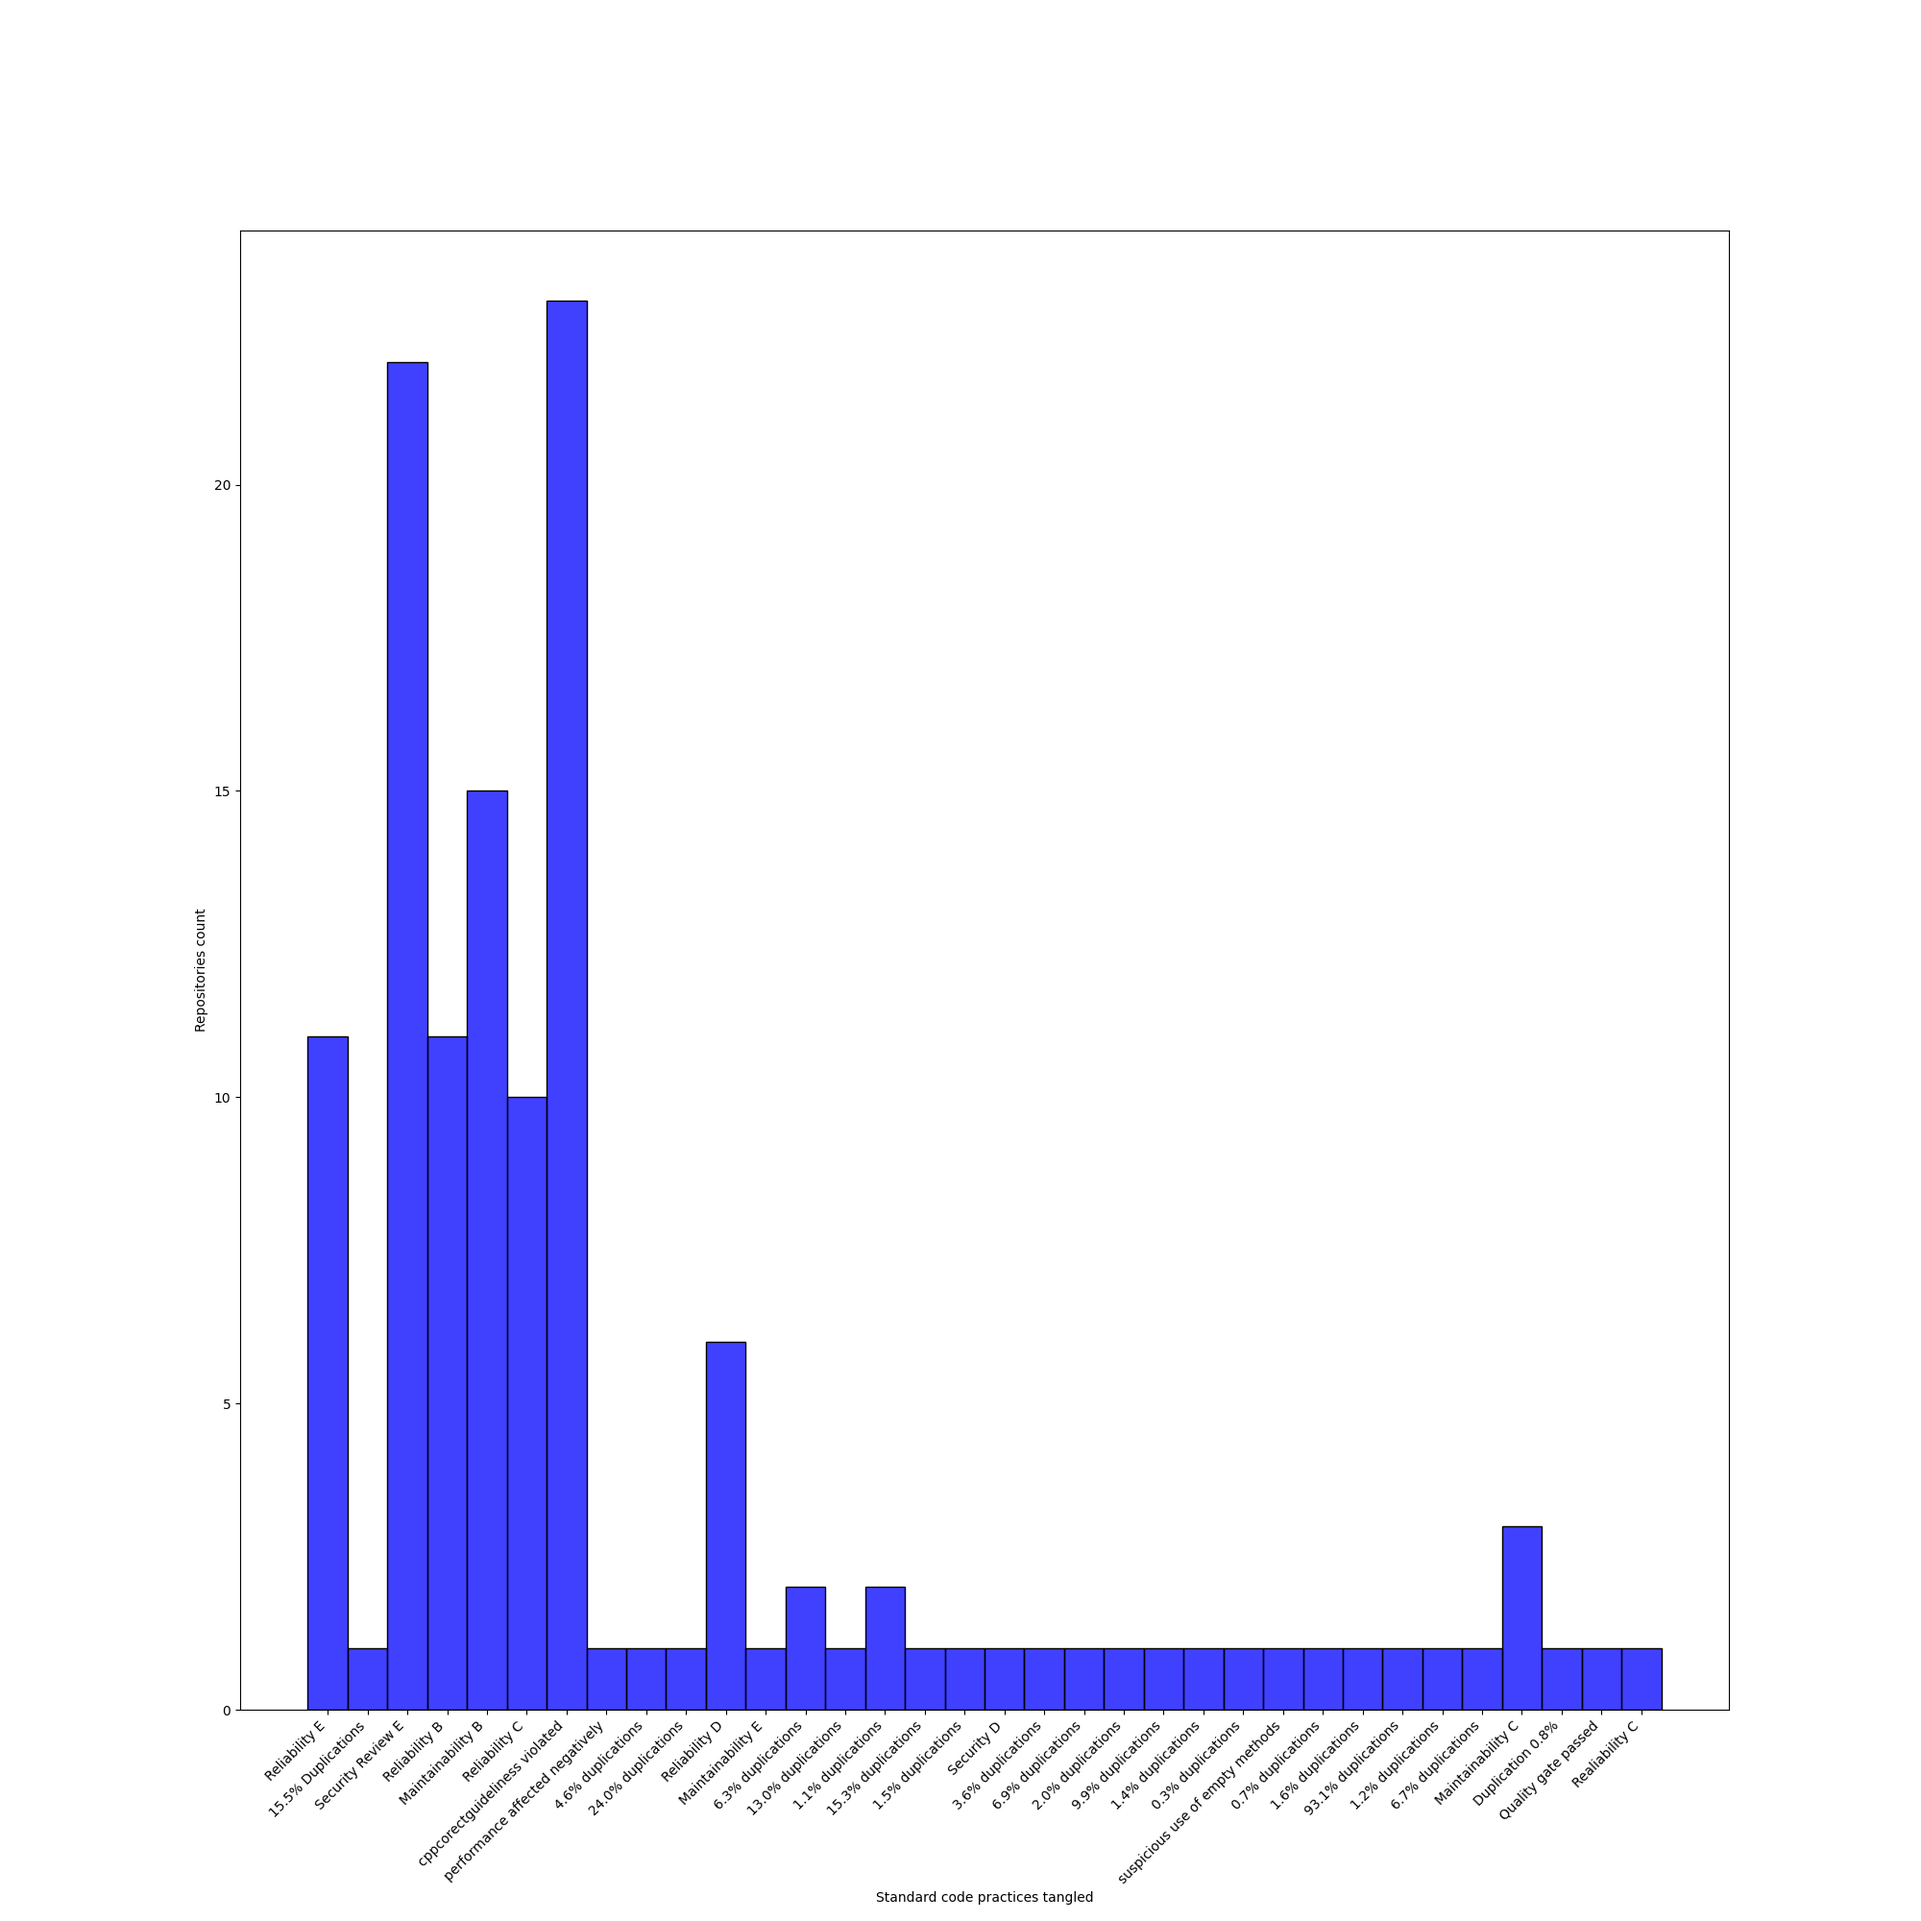
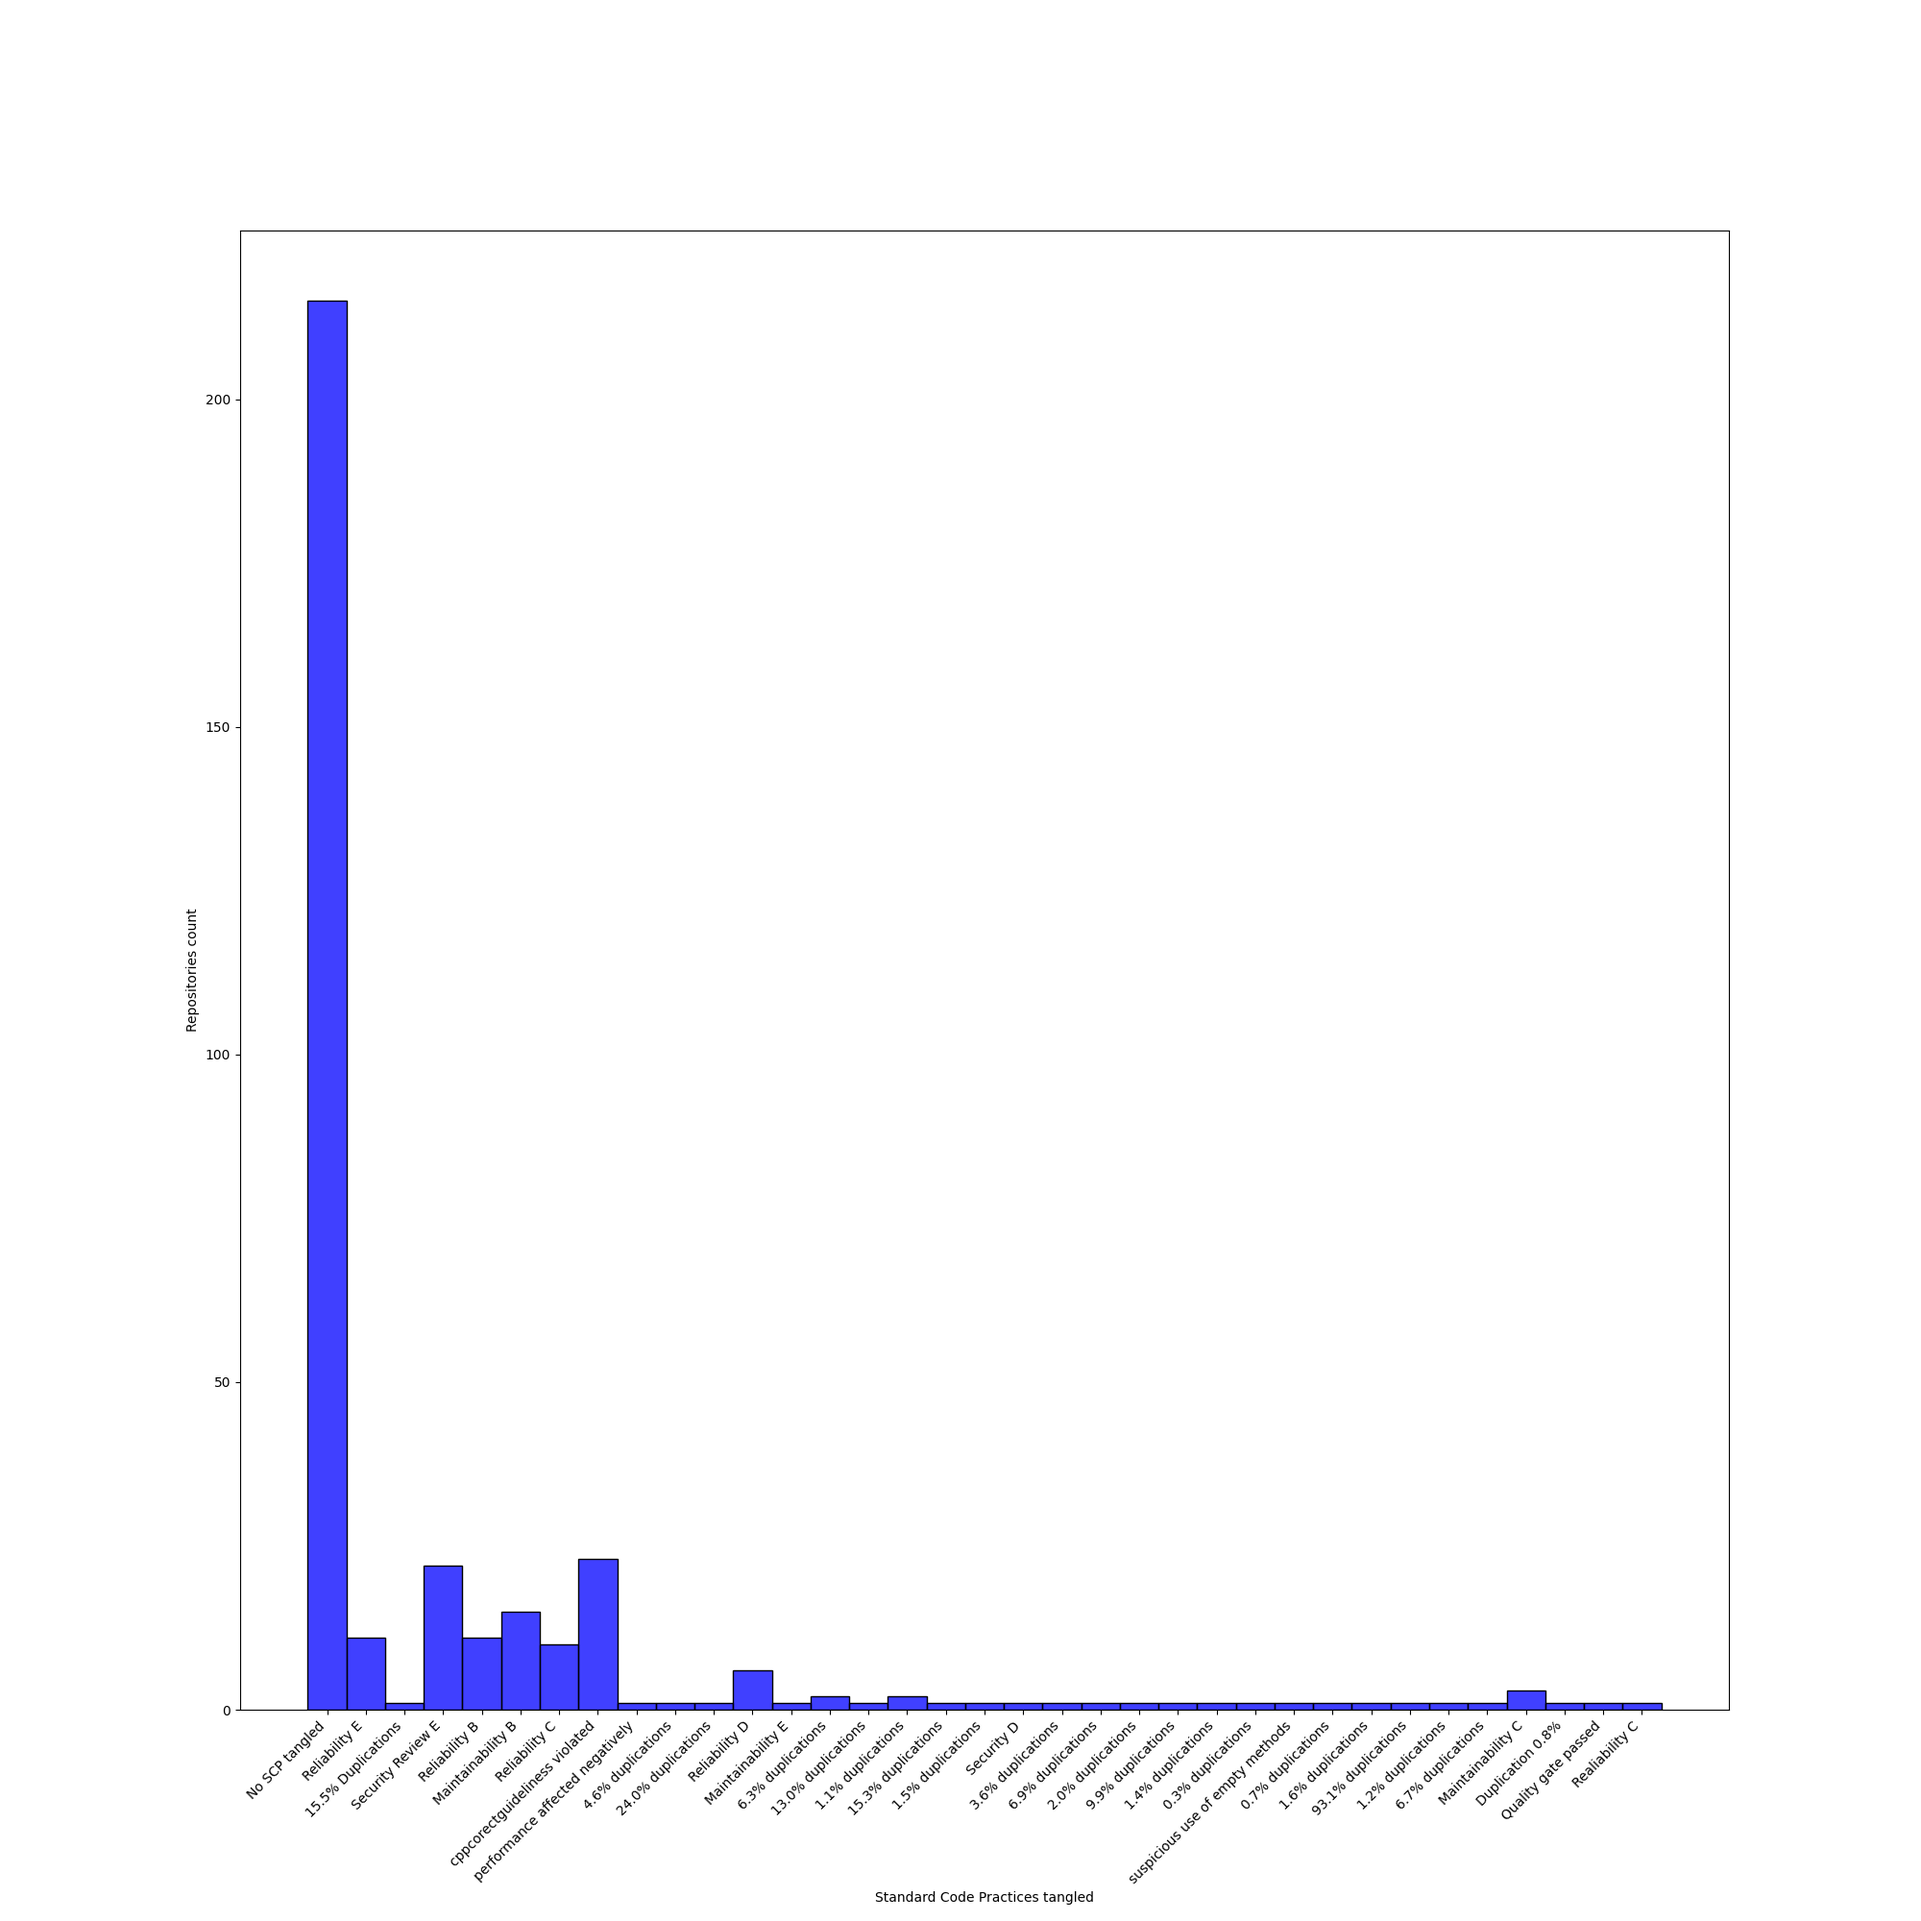
SCP tangled fixed

Changed region(s): [[0.155, 0.155, 0.868, 0.992], [0.093, 0.496, 0.124, 0.527]]

diff --git a/Qualitative analysis/qualitative_analysis_scripy.py b/Qualitative analysis/qualitative_analysis_scripy.py
@@ -82,9 +82,9 @@ plt.clf()
 
 plt.figure(figsize=(20,20))
 
-scp = sns.histplot(df_scp['SonarQube violations (SCP)'].str.strip(), discrete=True, color='blue', kde=False)
+scp = sns.histplot(df_scp['SonarQube SCP tangled '].str.strip(), discrete=True, color='blue', kde=False)
 
-scp.set(xlabel='Standard code practices tangled')
+scp.set(xlabel='Standard Code Practices tangled')
 scp.set(ylabel='Repositories count')
 
 plt.xticks(rotation=45, ha='right')
